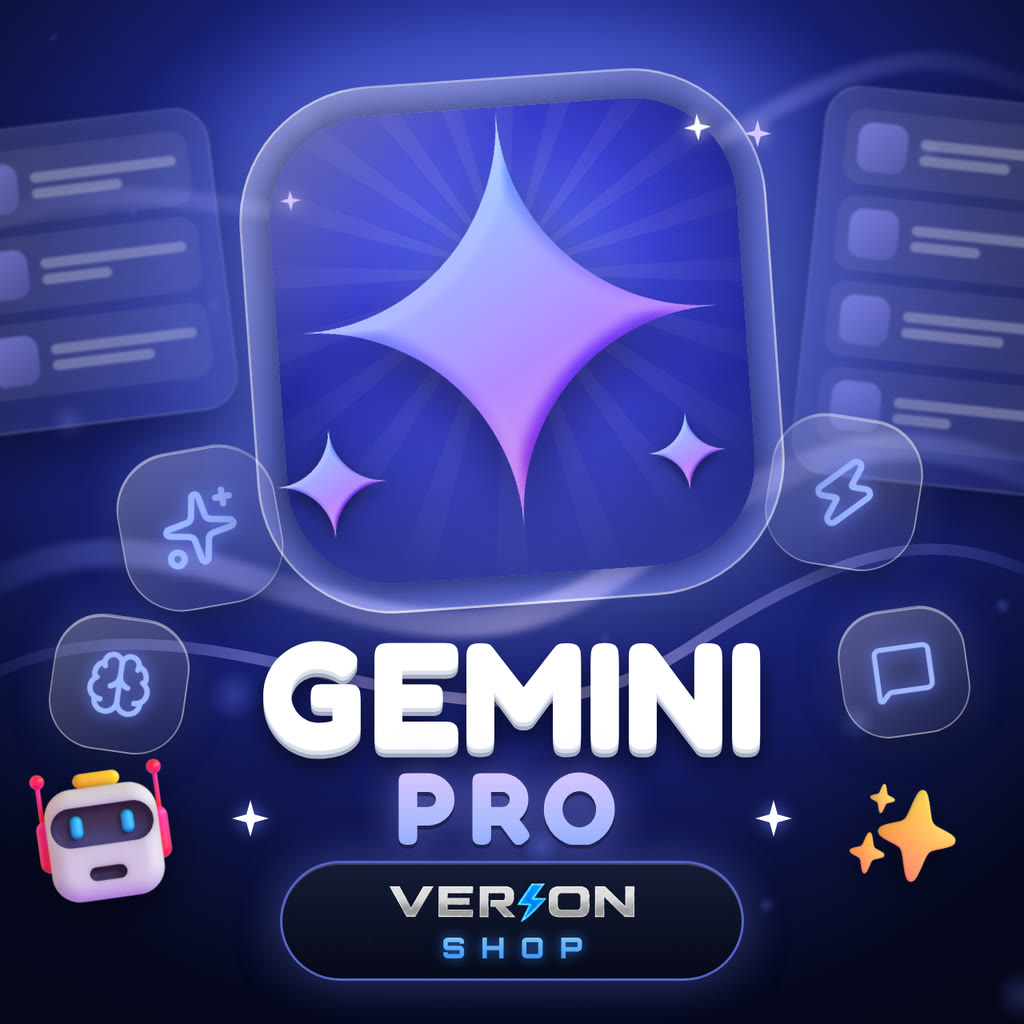
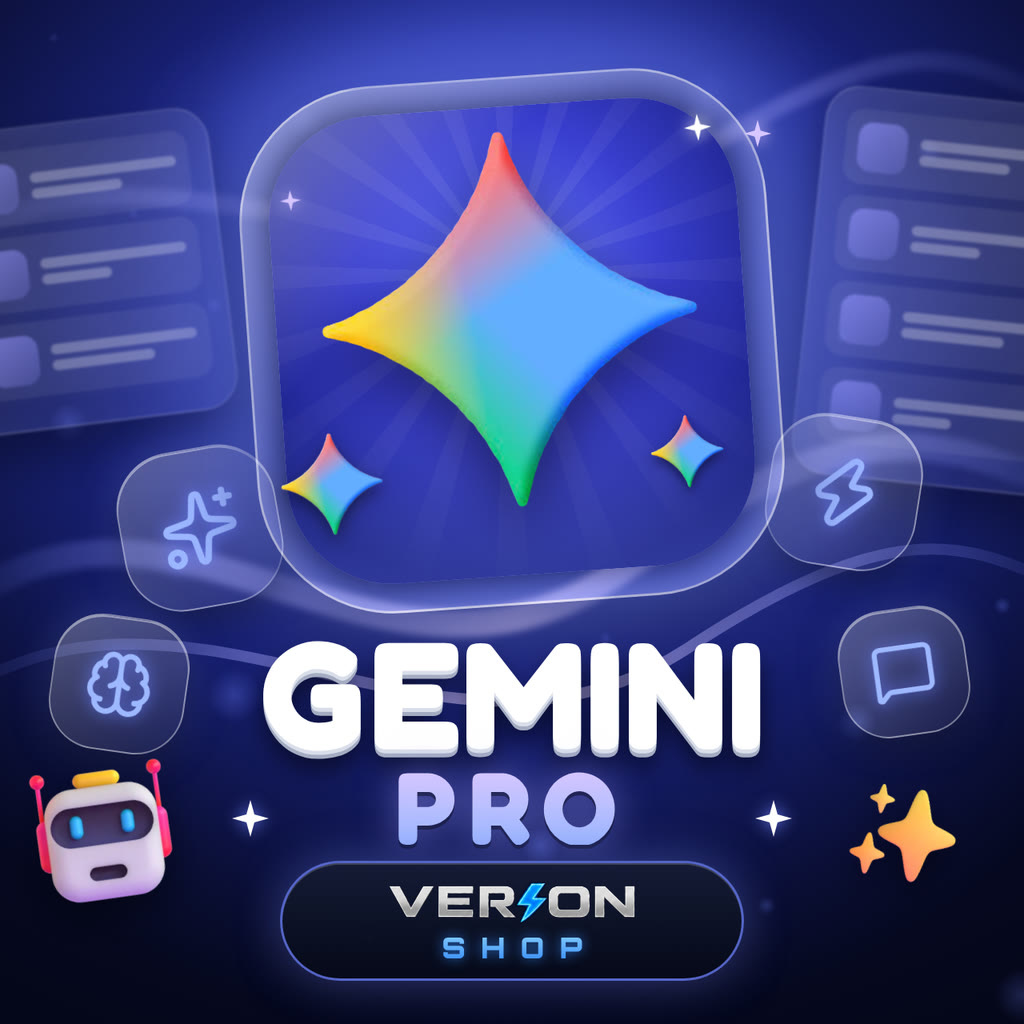
v3.24: Steam va Gemini muqovalari rasmiy belgilar bilan; Steam sahifasida rasmiy Steam logosi
Claude-Session: https://claude.ai/code/session_01CbtuoV2biNfcxKy98shqWf

Changed region(s): [[0.3125, 0.125, 0.6875, 0.5], [0.2812, 0.4062, 0.375, 0.5312], [0.625, 0.4062, 0.7188, 0.4688]]

diff --git a/verion-shop.html b/verion-shop.html
@@ -2768,7 +2768,7 @@ var ADMIN_IDS=[5606872249, 8684274899];
 /* Deploy belgisi — Profil ekranida ID ostida ko'rinadi. Ikkita raqam bo'ladi:
    birinchisi shu HTML fayl (Telegram keshi eski bo'lsa eskiligicha qoladi),
    ikkinchisi server (Railway). Ikkalasi bir xil bo'lmasa — kesh yoki deploy eski. */
-var CLIENT_BUILD="2026-11-05.7";
+var CLIENT_BUILD="2026-11-05.8";
 
 /* ===== Telegram init (guarded) ===== */
 var TG=null;
@@ -11483,7 +11483,7 @@ var XT_HTML={
 function _xh(k){var o=XT_HTML[k];return o[S.lang]||o.uz;}
 /* ===================== STEAM HAMYON ===================== */
 var STEAM=null;
-var STEAM_SVG='<svg viewBox="0 0 64 64" width="44" height="44"><circle cx="40" cy="22" r="11" fill="none" stroke="#fff" stroke-width="5"/><circle cx="40" cy="22" r="5" fill="#fff"/><circle cx="21" cy="44" r="8" fill="none" stroke="#fff" stroke-width="4.5"/><path d="M29 41 L33 30" stroke="#fff" stroke-width="6" stroke-linecap="round"/><path d="M4 36 L15 41" stroke="#fff" stroke-width="5" stroke-linecap="round"/></svg>';
+var STEAM_SVG='<svg viewBox="0 0 24 24" width="44" height="44"><circle cx="12" cy="12" r="12" fill="#fff"/><path fill="#1a5aa6" d="M11.979 0C5.678 0 .511 4.86.022 11.037l6.432 2.658c.545-.371 1.203-.59 1.912-.59.063 0 .125.004.188.006l2.861-4.142V8.91c0-2.495 2.028-4.524 4.524-4.524 2.494 0 4.524 2.031 4.524 4.527s-2.03 4.525-4.524 4.525h-.105l-4.076 2.911c0 .052.004.105.004.159 0 1.875-1.515 3.396-3.39 3.396-1.635 0-3.016-1.173-3.331-2.727L.436 15.27C1.862 20.307 6.486 24 11.979 24c6.627 0 11.999-5.373 11.999-12S18.605 0 11.979 0zM7.54 18.21l-1.473-.61c.262.543.714.999 1.314 1.25 1.297.539 2.793-.076 3.332-1.375.263-.63.264-1.319.005-1.949s-.75-1.121-1.377-1.383c-.624-.26-1.29-.249-1.878-.03l1.523.63c.956.4 1.409 1.5 1.009 2.455-.397.957-1.497 1.41-2.454 1.012H7.54zm11.415-9.303c0-1.662-1.353-3.015-3.015-3.015-1.665 0-3.015 1.353-3.015 3.015 0 1.665 1.35 3.015 3.015 3.015 1.663 0 3.015-1.35 3.015-3.015zm-5.273-.005c0-1.252 1.013-2.266 2.265-2.266 1.249 0 2.266 1.014 2.266 2.266 0 1.251-1.017 2.265-2.266 2.265-1.253 0-2.265-1.014-2.265-2.265z"/></svg>';
 function loadSteam(cb){api("/api/steam").then(function(r){STEAM=r;cb&&cb();}).catch(function(){STEAM={enabled:false};cb&&cb();});}
 function steamUsd(){var v=Number(String(S.st.usd||"").replace(",","."));return isFinite(v)?Math.round(v*100)/100:0;}
 function steamPriceOf(usd){return Math.ceil(usd*(STEAM&&STEAM.rate||0)/100)*100;}
@@ -11492,7 +11492,7 @@ function steamHTML(){
   if(!STEAM){loadSteam(render);return '<div class="xpage"><div class="vn-head"><div class="vn-spin" style="margin:30px auto"></div></div></div>';}
   var usd=steamUsd(),price=steamPriceOf(usd),ok=STEAM.enabled&&usd>=STEAM.min&&usd<=STEAM.max;
   var h='<button class="backrow" id="xBack">'+ic("arrowLeft",16)+' <b>Steam</b>'+admPen("steam")+'</button><div class="xpage">'
-    +'<div class="xhero"><div class="xlogo">'+(cardImgSet("steam")?'<img src="'+esc(cardImgSet("steam"))+'" alt="" style="width:100%;height:100%;object-fit:cover;border-radius:50%">':STEAM_SVG)+'</div><h2>'+esc(_x("Steam hamyonini to'ldirish"))+'</h2><p>'+esc(_x(STEAM.auto?"Login kiriting — hamyon avtomatik to'ldiriladi":"Login kiriting — hamyon tez to'ldiriladi"))+'</p></div>'
+    +'<div class="xhero"><div class="xlogo" style="background:none;width:76px;height:76px">'+(cardImgSet("steam")?'<img src="'+esc(cardImgSet("steam"))+'" alt="" style="width:100%;height:100%;object-fit:cover;border-radius:50%">':'<img src="/assets/steam.svg" alt="Steam" style="width:100%;height:100%">')+'</div><h2>'+esc(_x("Steam hamyonini to'ldirish"))+'</h2><p>'+esc(_x(STEAM.auto?"Login kiriting — hamyon avtomatik to'ldiriladi":"Login kiriting — hamyon tez to'ldiriladi"))+'</p></div>'
     +'<div class="xsum"><div class="r1"><span class="lb">'+ic("bolt",14)+' '+esc(_x("To'ldiriladi"))+'</span><span class="big" id="stBig">$'+usd.toFixed(2)+'</span></div>'
     +'<div class="r2"><span>'+esc(_x("To'lov summasi"))+'</span><span class="pay" id="stPay">'+esc(money(price).replace(" so'm",""))+'<small>so\'m</small></span></div></div>'
     +'<div class="xbox"><div class="hd"><b>'+ic("users",16)+' Steam login</b><button class="help" id="stHelp">'+ic("info",13)+' '+esc(_x("Qayerdan olaman?"))+'</button></div>'

diff --git a/server.js b/server.js
@@ -14,7 +14,7 @@ const ADMIN_IDS = (process.env.ADMIN_IDS || "5606872249,8684274899")
 /* Deploy belgisi — Railway rostdan yangi kodni ko'tardimi yoki eski build turibdimi,
    shuni ko'rish uchun. Profil ekranida ID ostida ko'rinadi (server/ilova alohida).
    Kod o'zgarganda shu satrni yangilab qo'yiladi. */
-const BUILD = "2026-11-05.7";
+const BUILD = "2026-11-05.8";
 // Har ishga tushishda yangi tasodifiy belgi — /api/health orqali "bu manzil aynan
 // SHU serverga olib keladimi" tekshiruvi uchun (maxfiy emas).
 const INSTANCE_ID = crypto.randomBytes(8).toString("hex");

diff --git a/README.md b/README.md
@@ -369,7 +369,7 @@ Ko'rinishi ilova mavzusidan qat'i nazar doim to'q: grafit fon, Unbounded (sarlav
 - **v3.19 — bosh sahifa kartalari «tirik»:** har bir bo'lim kartasida (a) rasm juda sekin yaqinlashadi, (b) 12 soniyalik aylanishda navbat bilan bitta kartada yumshoq och-ko'k yorug'lik chizig'i aylanib chiqadi (hamma kartada bir xil rang), (c) pastda yashil «Sotib olish» tugmasi (`ctaBtn()`: yaltirash, oq doira ichida harakatlanuvchi strelka, yonayotgan kartada halqa), (d) bosilganda bosilgan joydan to'lqin (`pripple`), (e) mahsulot soni yonida yashil «mavjud» nuqtasi. Nakrutka kartasida faqat mahsulot soni (yuklanguncha «…», xato bo'lsa eski izoh; `NkHomeFail`). Hammasi faqat `transform`/`opacity`; «Kamroq harakat» (`data-reduce-motion`), `prefers-reduced-motion` va `.lite` rejimida o'chadi (ilgari bu ro'yxat keyingi `@media` qoidasi bilan qo'shilib qolib, sozlama ishlamas edi — tuzatildi). Bo'lim kartalarining rasmlari (1024×1024) admin paneldan ✏ orqali yuklanadi.
 - **v3.20 — Telegram Premium: kimga olishni tanlash + «Balans yetarli emas» oynasi:** `fulfill:"fragment_premium"` mahsulotlari endi alohida oqim (`openPremiumBuy`) orqali sotiladi: tepada Premium kartasi, `@USERNAME` + «Tekshirish» (`/api/fragment/check-user`, «O'zimga» tugmasi), tekshirilgach yashil karta (ism, @username, «O'zgartirish»); qabul qiluvchida Premium allaqachon bo'lsa — sariq ogohlantirish va xarid bloklanadi; paketlar (3/6/12 oy) kartochkalarda tanlanadi. Xarid yangi `POST /api/buy-premium {itemId, username}` orqali: eski `/api/buy` Premium'ni faqat xaridorning o'ziga yuborar edi. Pul `reserveBalance` bilan band qilinadi, Fragment aniq rad etsa qaytariladi, aloqa uzilsa buyurtma «kutilmoqda» bo'ladi; «allaqachon Premium» javobi `409 already_premium` (adminga signal ketmaydi). Telegram bo'limida bir nechta Premium paketi BITTA «Telegram Premium» kartasiga jamlanadi (`productGridHTML`). Balans yetmasa hamma xarid oqimlarida (Premium, Stars, sovg'a, oddiy mahsulot) bitta oyna chiqadi (`openNeedBalance`): mahsulot narxi / balans / yetishmaydi + pastda «Yopish» va «Balansni to'ldirish» (to'lov sahifasi yetishmagan summa bilan ochiladi). Mahsulot oynalari endi to'liq ekranli sahifa (`openSheet(inner,backFn,{full:true})`: tepada «Orqaga», pastda qotgan harakat paneli `.fbar`): oddiy mahsulot, tasdiqlash, Stars, sovg'a, Premium va o'yin tasdiqlash. «Balans yetarli emas» endi mustaqil qatlam (`#nbOv`, `openNeedBalance(price)`): sahifa ostida joyida qoladi; oddiy mahsulot, o'yin, Stars, sovg'a, Premium, Nakrutka, Steam, virtual raqam va skinlarda bir xil chiqadi. Stars, Premium va sovg'ada «O'zimga» ingichka tugma (`.selfBtn`, `selfBtnHTML`). Premium paketlari katalogda bo'lishi uchun admin «Oddiy mahsulot» → «Yetkazish turi: Avto-Premium (Fragment)» bilan 3/6/12 oylik mahsulot qo'shadi.
 - **v3.22 — tayyor mahsulot muqovalari:** `assets/cover-*.jpg` (1024×1024; Stars, Premium, Sovg'alar, Virtual raqam, Steam, Gemini Pro, CS2, Dota 2, Rust) — bitta uslubda (shisha plitka, 3D markaziy narsa, ikki rangli sarlavha, pastda VERION SHOP). Admin rasm qo'ymagan joylarda ilova ularni o'zi ko'rsatadi: Virtual raqam, Steam, CS2/Dota 2/Rust kartalari (`DEF_COVER`, `cardImg()`; admin qo'ygan rasm doim ustun — `cardImgSet()`), Stars (`fragment_stars_custom`) va Premium (`fragment_premium`) mahsulot plitkasi (`tileHTML`). Admin qo'ygan rasm bo'lsa o'sha ko'rinadi: yangi muqovani almashtirish uchun mahsulotdagi ✏ → rasm. Muqovalar ilova ichidagi haqiqiy ekran (Virtual raqam telefon ichida), rasmiy Stars/Steam/Gemini belgilari va 3D emoji bilan yasalgan, tashqi servislarsiz.
-- **v3.23 — bo'lim kartalari va /start rasmi yangi uslubda:** `assets/cover-cat-{obuna,oyinlar,telegram,nakrutka}.jpg` (haqiqiy ilova belgilari shisha plitkada) — bosh sahifadagi bo'lim kartasiga admin rasm qo'ymagan bo'lsa shu chiqadi (`catDefCover`); admin qo'ygan rasm ustun. Eski rasm (matni kesilib qolgan) o'rniga yangisini qo'yish: Mahsulotlar → «🗂 Bo'limlar: nomi va rasmi» → rasm yonidagi ✕ (tayyor muqova o'zi chiqadi) yoki `cover-cat-*.jpg` ni yuklash. `assets/start-banner.png` (botdagi /start rasmi) shu uslubga o'tkazildi (server uni `size-mtime` bo'yicha qayta yuklaydi). Ismi emoji bilan boshlangan foydalanuvchining avatar harfi «�» bo'lib chiqmaydi (`firstCh`). Muqovalar skinlar bilan bir xil yasash usulida: lenta endi sarlavhani kesib o'tmaydi. Mahsulot sahifasining tepasidagi rasm endi kesilmaydi: butun muqova ko'rinadi, orqasida uning xira nusxasi (`.bgb`). Premium muqovasi rasmiy Telegram Premium yulduzi shaklida (swoosh) va rasmiy binafsha→pushti gradient bilan, Sovg'alar muqovasida haqiqiy Telegram sovg'asi (ayiqcha), Stars'da rasmiy sharlar uslubi. Botning standart /start matni tuzilgan ro'yxatga o'tkazildi (admin o'z matnini yozgan bo'lsa — o'sha ishlaydi).
+- **v3.23 — bo'lim kartalari va /start rasmi yangi uslubda:** `assets/cover-cat-{obuna,oyinlar,telegram,nakrutka}.jpg` (haqiqiy ilova belgilari shisha plitkada) — bosh sahifadagi bo'lim kartasiga admin rasm qo'ymagan bo'lsa shu chiqadi (`catDefCover`); admin qo'ygan rasm ustun. Eski rasm (matni kesilib qolgan) o'rniga yangisini qo'yish: Mahsulotlar → «🗂 Bo'limlar: nomi va rasmi» → rasm yonidagi ✕ (tayyor muqova o'zi chiqadi) yoki `cover-cat-*.jpg` ni yuklash. `assets/start-banner.png` (botdagi /start rasmi) shu uslubga o'tkazildi (server uni `size-mtime` bo'yicha qayta yuklaydi). Ismi emoji bilan boshlangan foydalanuvchining avatar harfi «�» bo'lib chiqmaydi (`firstCh`). Muqovalar skinlar bilan bir xil yasash usulida: lenta endi sarlavhani kesib o'tmaydi. Mahsulot sahifasining tepasidagi rasm endi kesilmaydi: butun muqova ko'rinadi, orqasida uning xira nusxasi (`.bgb`). Premium muqovasi rasmiy Telegram Premium yulduzi shaklida (swoosh) va rasmiy binafsha→pushti gradient bilan, Sovg'alar muqovasida haqiqiy Telegram sovg'asi (ayiqcha), Stars'da rasmiy sharlar uslubi. Steam va Gemini muqovalari rasmiy belgilar bilan (Steam: ko'k gradientli disk + oq belgi, `assets/steam.svg` — Steam sahifasining tepasida ham shu; Gemini: rasmiy shakl va ranglar). Botning standart /start matni tuzilgan ro'yxatga o'tkazildi (admin o'z matnini yozgan bo'lsa — o'sha ishlaydi).
 - **Profil:** yon panel — avatar (80px), ism, @username · ID, ko'k balans kartasi va «Balansni to'ldirish», menyu (Profil, Buyurtmalar — jarayondagilar soni bilan, Sevimli skinlar, Steam savdo takliflari, Qanday ishlaydi?, Qo'llab-quvvatlash), «Asosiy do'konga qaytish»; asosiy qism — statistika (Xaridlar / Yetkazildi / Sevimli), jami xarid summasi, «Steam trade havola» bloki (havola maydoni, nusxalash, maslahat, «Havolani kiritish/o'zgartirish»), Steam akkaunt kartasi, Steam Guard eslatmalari.
 - **Buyurtmalar:** xulosa satri (jami xaridlar, summa, jarayondagilar), tablar guruhi (Hammasi / Jarayonda / Yetkazildi / Bekor — soni bilan), xarid kartochkalari (rasm, holat kodi, nom, #raqam · o'yin · sana · float, narx, holat belgisi — jarayonda ko'k, mijozdan harakat kutilsa yoki trade-lock'da sariq, yetkazilgan yashil, bekor qizil; izoh va «Taklifni ochish» / «Bekor qilish (3%)»). Kartochka bosilsa — **buyurtma tafsilotlari** oynasi: 4:3 rasm, nom, ko'k narx, rangli holat izohi, «Steam'da qabul qilish», ma'lumotlar jadvali (holat, sana, o'yin, holati, float, Steam taklif raqami).
 
